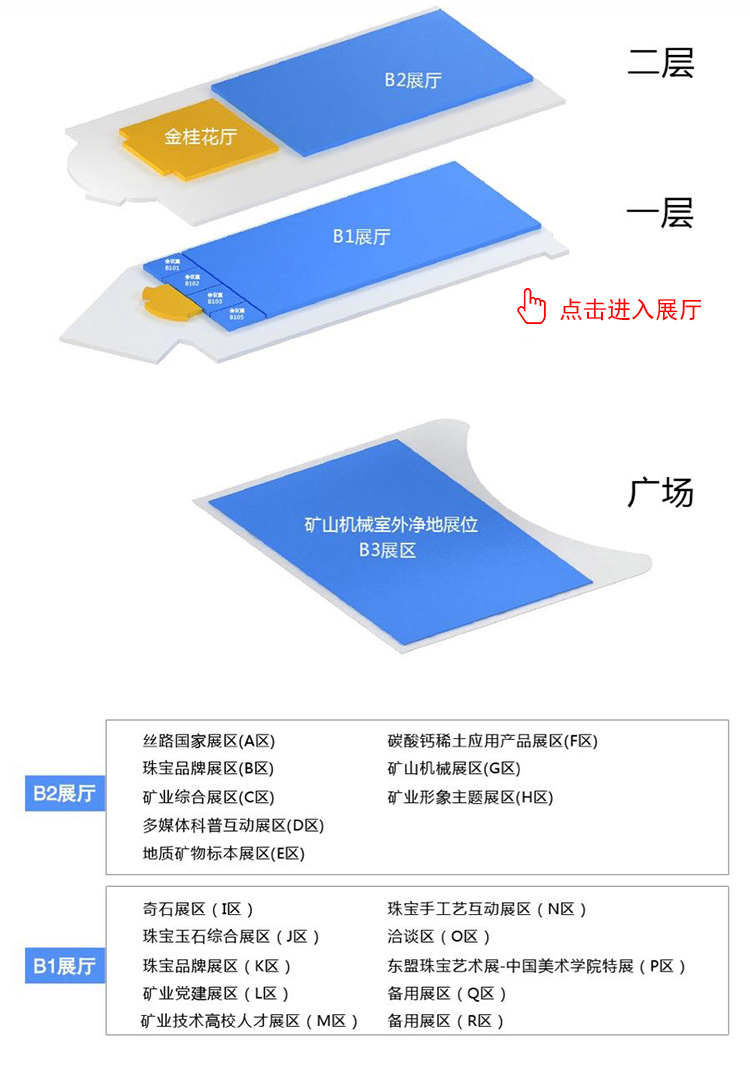
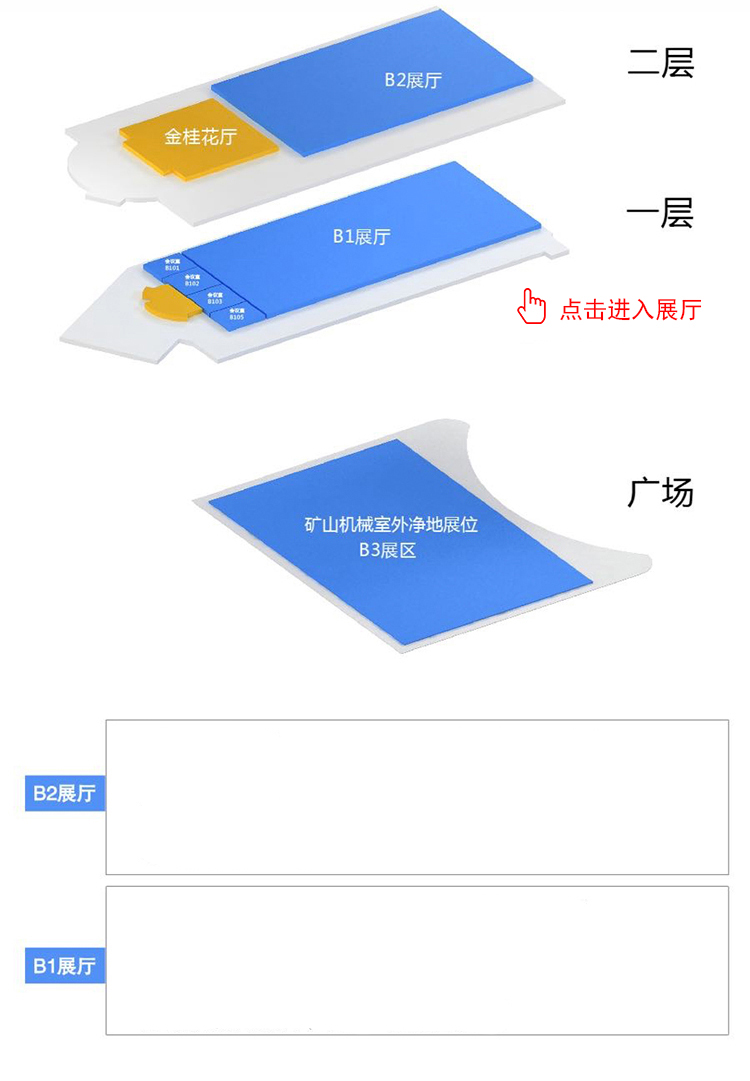
modify

diff --git a/kyz/mobile/index/navigation.html b/kyz/mobile/index/navigation.html
@@ -84,6 +84,33 @@ body{max-width: 540px;margin: 0 auto}
     </g>
   </g>
 </svg>
+<style type="text/css">
+  .area-wrap {
+    position: absolute;
+    width: 81%;
+    z-index: 999;
+    background: #fff;
+    font-size: 1rem;
+    /* font-weight: bold; */
+    left: 15%;
+    line-height: 110%;
+  }
+</style>
+<div class="area-wrap" style="    top: 60%;
+    padding-top: 3px;">
+  <div>丝路国家展区（A区）</div>
+  <div>金属矿业展区；水气矿产展区；矿业综合展区；矿业党建助力精准扶贫成果展区（B区、C区、D区）</div>  
+  <div>矿物标本精品展区（E、F区）</div>  
+  <div>矿山新技术、矿山机械展区、非金属矿产展区（G区）</div>  
+  <div>矿业高校人才交流展区、矿业形象及地质展区（H区）</div>  
+</div>
+<div class="area-wrap" style="    top: 71%;
+    padding: 3% 0;">
+  <div>珠宝玉石首饰综合展区（J）</div>
+  <div>矿物奇石/陶瓷综合展区（Q）</div>
+  <div>东盟珠宝艺术展——中国美术学院特展（R区）</div>
+  <div>地质科普/手工制作体验区（T区）</div>
+</div>
 
 
 
